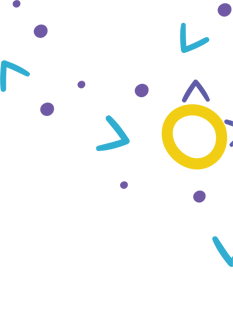
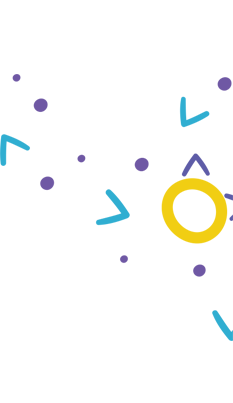
semi pronto

diff --git a/index.html b/index.html
@@ -27,63 +27,53 @@
     </div>
   </nav>
 
-  <div class="lateraldireita">
-<img src="img/imagem1.png" class="lateral" alt="" />
-  </div>
-
 
   <div class="section no-pad-bot" id="index-banner">
-    <div class="container">
+    <div class="container ajus">
       <br><br>
-      <div class="row">
-        <div class="s6">
-          <div class="plaquinha wow swing" data-wow-duration="5s" data-wow-delay="1s" data-wow-offset="10"  data-wow-iteration="10">
+      <div class="row ajustes">
+        <div class="col s7 offset-s5">
+          <div class="plaquinha wow swing" data-wow-duration="5s"  data-wow-offset="10"  data-wow-iteration="10">
             <h2 class="textoplaquinha">Venha se divertir <br>
             <span class="tracoazul">-</span> <span class="lightplaquinha">enquanto faz</span> <span class="tracoazul">-</span> <br>
             Atividades físicas
             </h2>
-
           </div>
-          <div class="detalhecanto">
-        <img src="img/detalhetopo.png" class="lateral2" alt="" />
-          </div>
-        </div>
-      </div>
-      <div class="row center">
-        <div class="col s6 offset-s5">
-          <p class="header col s12 text-comum">Cada treinador te ajuda a práticar uma atividade específica. <span class="textdestaque">Clique e descubra:</span> </h5>
-        </div>
-      </div>
-      <div class="row">
-        <div class="col s6 offset-s5">
           <div class="row center">
-           <div class="col s4">
-             <a href="#" class="wow fadeInUp" data-wow-delay="1s"><img class="iconbichos circle" src="img/guepardoicon.svg" alt="" /></a>
-           </div>
-           <div class="col s4">
-              <a href="#" class="wow fadeInUp" data-wow-delay="1.5s"><img class="iconbichos circle" src="img/lebreicon.svg" alt="" /></a>
-           </div>
-           <div class="col s4" >
-              <a href="#" class=" wow fadeInUp" data-wow-delay="2s"><img class="iconbichos circle" src="img/cachorroicon.svg" alt="" /></a>
-           </div>
-        </div>
+            <div class="col s8">
+              <p class="header col s12 text-comum">Cada treinador te ajuda a práticar uma atividade específica. <span class="textdestaque">Clique e descubra:</span> </h5>
+            </div>
+          </div>
+              <div class="row center">
+                <div class="col s8">
 
+               <div class="col s4">
+                 <a href="#modal1" class="wow fadeInUp" data-wow-delay="1s"><img class="iconbichos circle" src="img/guepardoicon.svg" alt="" /></a>
+               </div>
+               <div class="col s4">
+                <a href="#modal2" class="wow fadeInUp" data-wow-delay="1.5s"><img class="iconbichos circle" src="img/lebreicon.svg" alt="" /></a>
+               </div>
+               <div class="col s4" >
+                <a href="#modal3" class=" wow fadeInUp" data-wow-delay="2s"><img class="iconbichos circle" src="img/cachorroicon.svg" alt="" /></a>
+               </div>
+               </div>
+            </div>
+
+
+        </div>
       </div>
 
-      <br><br>
-
-    </div>
 
   </div>
 
   <!--   video   -->
 
-  <div class="container" id="saiba">
+  <div class="container ajus" id="saiba">
     <div class="section">
       <div class="row">
         <div class="col s10 offset-s2">
-            <h2  class="center">Um novo jeito de <span>Brincar</span></h2>
-            <p>Move é uma plataforma onde você aceita desafios físicos,
+            <h2 class="center wow fadeInDown">Um novo jeito de <span>Brincar</span></h2>
+            <p class="margintext">Move é uma plataforma onde você aceita desafios físicos,
               acompanha seu desempenho, pode desafiar amigos e ganha recompensas a cada meta completa. </p>
               <div class="row">
                 <div class="col s2">
@@ -103,7 +93,7 @@
 
   <!--   produto   -->
 
-  <div class="container" id="produtos">
+  <div class="container ajus" id="produtos">
     <div class="section">
       <div class="row">
         <div class="col s10 offset-s1">
@@ -125,20 +115,18 @@
 
   <!--   contato  -->
 
-  <div class="ajuste" id="pais" >
-    <div class="section">
-
+  <div class="ajuste ajus" id="pais" >
+    <div class="">
       <div class="row">
         <div class="col s8 pais">
             <h2 class="center">Acompanhe as atividades</h2>
             <p>Pais e professores podem utilizar a plataforma para acompanhar o desempenho das contas cadastradas,
-              criar desafios personalizados e metas em grupo ou individuais. Um relatório semanal também pode
+              criar desafios personalizados e metas em grupo ou individuais.<br> Um relatório semanal também pode
               ser enviado ao email cadastrado com os gráficos de desempenho em cada atividade e meta específica.  </p>
         <div class="numeros">
             <div class="row center">
-              <div class="col s4">
-                <h4>233</h4>
-                <h5>Usuários</h5>
+              <div class="col s4 textdados">
+                <h5>Dados do gerais <br> aplicativo:</h5>
               </div>
               <div class="col s4">
                 <h4>233</h4>
@@ -192,14 +180,14 @@
     <div class="footer-copyright">
       <div class="container">
       <div class="row">
-        <div class="col s4">
+        <div class="col s2">
 
         </div>
-        <div class="col s4">
-          <p class="text-write">Move 2016 - Trabalho de conclusão de curso
-              acesse aqui a clausula de direitos autorais.</p>
+        <div class="col s8">
+          <p class="text-write rodape">Move 2016 - Trabalho de conclusão de curso
+            <a href="#">acesse aqui</a> a cláusula de direitos autorais.</p>
         </div>
-        <div class="col s4">
+        <div class="col s2">
 
         </div>
       </div>
@@ -207,6 +195,47 @@
     </div>
   </footer>
 
+  <div id="modal1" class="modal">
+      <div class="modal-content">
+        <h4>Rapha</h4>
+        <p>Ativo e o mais engraçado dos treinadores. Velocidade é o seu segundo nome.</p>
+      </div>
+      <div class="modal-footer">
+        <a href="#!" class=" modal-action modal-close waves-effect waves-green btn-flat">Fechar</a>
+      </div>
+  </div>
+
+  <div id="modal2" class="modal">
+      <div class="modal-content">
+        <h4>Lê</h4>
+        <p>Pula, pula e pula! Só sabe fazer uma coisa o tempo todo, pular e dançar. <br>
+           Adora música, bambolês e saltar o dia todo. Tem temperamento forte e sabe sempre o que quer.</p>
+      </div>
+      <div class="modal-footer">
+        <a href="#!" class=" modal-action modal-close waves-effect waves-green btn-flat">Fechar</a>
+      </div>
+  </div>
+
+  <div id="modal3" class="modal">
+      <div class="modal-content">
+        <h4>Minduin</h4>
+        <p>Adora brincar com bolas, quantas mais melhor, é fofo, divertido, <br>
+           ama esportes e sempre está pronto para brincar!</p>
+      </div>
+      <div class="modal-footer">
+        <a href="#!" class=" modal-action modal-close waves-effect waves-green btn-flat">Fechar</a>
+      </div>
+  </div>
+
+  <div id="modal4" class="modal">
+      <div class="modal-content">
+        <h4>Modal Header</h4>
+        <p>A bunch of text</p>
+      </div>
+      <div class="modal-footer">
+        <a href="#!" class=" modal-action modal-close waves-effect waves-green btn-flat">Agree</a>
+      </div>
+  </div>
 
   <!--  Scripts-->
   <script src="https://code.jquery.com/jquery-2.1.1.min.js"></script>
@@ -250,5 +279,13 @@ $('a[href^="#"]').on('click',function (e) {
 });
 });
 </script>
+<script type="text/javascript">
+$(document).ready(function(){
+   // the "href" attribute of .modal-trigger must specify the modal ID that wants to be triggered
+   $('.modal').modal();
+ });
+
+</script>
+
   </body>
 </html>

diff --git a/css/style.css b/css/style.css
@@ -61,11 +61,13 @@ background-color: #eee;
 .lateraldireita{
 position: absolute;
 top:0;
+z-index: 1;
 }
 
 .lateral{
-  width: 50%;
-  margin-top: 30px;
+left: 0;
+top:0;
+width: 100%;
 }
 
 
@@ -100,11 +102,20 @@ padding-top: 5px;
   background-image: url(../img/pattern-purple.png);
   padding: 2% !important;
   bottom: 0px;
-  border-radius: 150px 2px 2px 150px;
+  border-radius: 50px 2px 2px 50px;
+  -webkit-box-shadow: 6px 7px 55px -7px rgba(0,0,0,0.61);
+  -moz-box-shadow: 6px 7px 55px -7px rgba(0,0,0,0.61);
+  box-shadow: 6px 7px 55px -7px rgba(0,0,0,0.61);
 }
 
 .pais{
-  padding: 2% !important;
+  padding-top: 20px;
+  padding-left: 5% !important;
+  padding-right:5% !important;
+  background-repeat: no-repeat;
+  background-position: left top;
+  background-image: url(../img/coelho1.png);
+
 }
 
 .numeros{
@@ -128,17 +139,17 @@ box-shadow: 6px 7px 55px -7px rgba(0,0,0,0.61);
 
 .plaquinha{
   background-color: #FFF;
-  border: 18px solid #5a58a1;
-  border-radius: 20px;
-  text-align: center;
-  padding: 20px;
-  width: 50%;
-  margin-left: 40%;
-  margin-top: 50px;
-  -webkit-box-shadow: 6px 7px 55px -7px rgba(0,0,0,0.61);
-  -moz-box-shadow: 6px 7px 55px -7px rgba(0,0,0,0.61);
-  box-shadow: 6px 7px 55px -7px rgba(0,0,0,0.61);
-  z-index: 20;
+    border: 18px solid #5a58a1;
+    border-radius: 20px;
+    text-align: center;
+    padding: 20px;
+    width: 70%;
+    margin-left: -5%;
+    margin-top: 50px;
+      -webkit-box-shadow: 6px 7px 55px -7px rgba(0,0,0,0.61);
+      -moz-box-shadow: 6px 7px 55px -7px rgba(0,0,0,0.61);
+      box-shadow: 6px 7px 55px -7px rgba(0,0,0,0.61);
+      z-index: 20;
 }
 
 .tracoazul{
@@ -157,6 +168,77 @@ box-shadow: 6px 7px 55px -7px rgba(0,0,0,0.61);
   font-size: 0.8em !important;
   color: #83709d;
 }
+
+.ajus{
+    width: 100%;
+    max-width: none;
+}
+
+.margintext{
+  margin-bottom: 20px;
+}
+
+.minhaDiv
+{
+   background-image: url('https://g.twimg.com/Twitter_logo_blue.png'); /* endereço URL da imagem */
+   background-position:center; /* centraliza apenas o background - para não cortar */
+   height: 500px; /* defina a largura da imagem */
+   width: 500px; /* defina a altura da imagem */
+   background-repeat:no-repeat; /* para não repetir o background */
+}
+
+#saiba{
+  background:
+  url(../img/imagem1_02.png) top left no-repeat,
+  url(../img/guepardobg.png) top right no-repeat;
+  padding-left: 15%;
+  padding-right: 15%;
+}
+
+#produtos{
+  background:
+  url(../img/lat.png) top right no-repeat,
+  url(../img/coelho2.png) bottom left no-repeat,
+  url(../img/imagem1_03.png) top left no-repeat;
+  padding-left: 15%;
+  padding-right: 15%;
+}
+
+#index-banner{
+  background:
+  url(../img/imagem1_01.png) top left no-repeat,
+  url(../img/detalhetopo.png) top right no-repeat;
+
+}
+
+#pais{
+  background-repeat: no-repeat;
+  background-position: right top;
+  background-image: url(../img/lat2.png);
+}
+
+.rodape{
+  font-size: 1em;
+}
+
+a{
+  font-weight: bold;
+}
+
+
+.ajustes{
+  margin-bottom: 2px !important;
+  margin-right: 0px !important;
+}
+.numeros h4, h5{
+    text-shadow: 2px 2px 8px rgba(11, 44, 93, 0.73);;
+}
+
+.textdados{
+    padding-top: 20px !important;
+    font-size: 1.5em;
+  }
+
 
 .textdestaque {
   color:#2faed1;
@@ -218,6 +300,8 @@ h5{
   color: #636363;
   text-align: left;
   font-size: 1.6em;
+  margin-top: 17px;
+  margin-bottom: 5px;
 }
 
 ::-webkit-input-placeholder {
